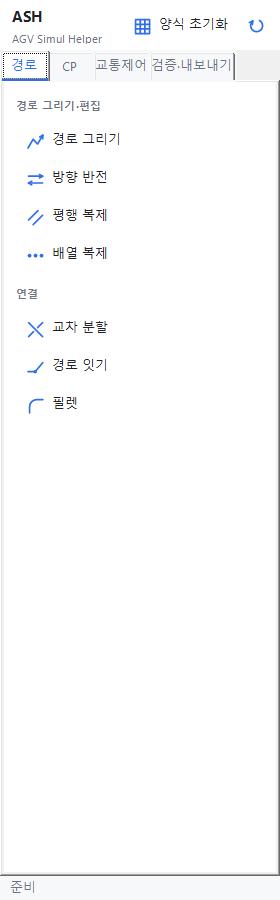
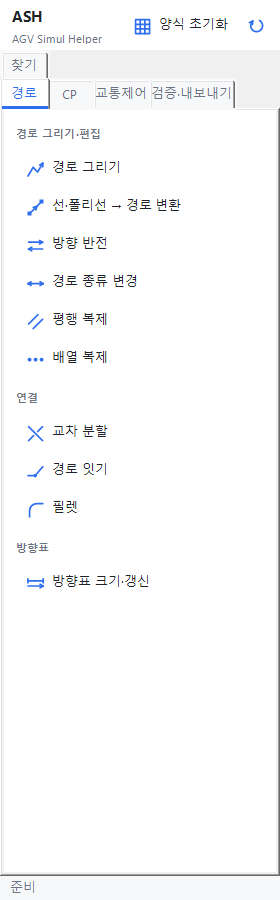
feat(path): AGVCONVERT turns drawn lines/polylines into one-way paths and splits at crossings
Selection, preselection or every object on one picked layer; one path per
segment as AGVPATH does, drawn direction, AGV_PATH layer; skipped objects
are listed by reason; then all paths are split like AGVSPLIT and a Korean
guidance block explains AGVREVERSE/AGVPTYPE and the next steps. One
transaction, one undo. Palette and ribbon button with its own glyph.

diff --git a/src/ASH.Plugin/Commands/PathCommands.cs b/src/ASH.Plugin/Commands/PathCommands.cs
@@ -88,16 +88,8 @@ public sealed class PathCommands
                 var pl = (Polyline)tr.GetObject(id, OpenMode.ForWrite);
                 var drawn = DrawingReader.ReadPath(pl, kind); // its straight lines and arcs, in the order drawn
                 if (drawn == null) continue;
-                // PLINE joins consecutive segments into one polyline; each line (or arc) becomes a path of its own so fillet, join and split work on them
-                var pieces = new List<LayoutPath>();
-                foreach (var seg in drawn.Segments)
-                {
-                    var name = AutoNamer.Next("P", names);
-                    names.Add(name);
-                    var piece = new LayoutPath(name) { IsSpur = kind.Spur, IsTwoWay = kind.Two, IsCrab = kind.Crab };
-                    piece.Segments.Add(seg);
-                    pieces.Add(piece);
-                }
+                // PLINE joins consecutive segments into one polyline; each line (or arc) becomes a path of its own
+                var pieces = PathConvert.Pieces(drawn.Segments, kind, names);
                 DrawingWriter.ReplacePaths(d, tr, new[] { pl.Handle.ToString() }, pieces);
                 made += pieces.Count;
                 ed.WriteMessage(pieces.Count == 1
@@ -107,6 +99,74 @@ public sealed class PathCommands
             return made > 0;
         });
     }
+
+    // ---------- AGVCONVERT: lines/polylines drawn with ordinary tools -> one-way paths, then split at every crossing ----------
+
+    [CommandMethod("AGVCONVERT", CommandFlags.UsePickSet)]
+    public void AgvConvert() => Run(Doc, "AGVCONVERT", (db, tr) =>
+    {
+        var ids = ConvertTargets(Ed, db, tr);
+        if (ids == null) return false;
+        var names = DrawingReader.Read(db, tr).Paths.Select(p => p.Name).ToList();
+        var skipped = new Dictionary<string, int>();
+        var sources = new List<string>();
+        var made = new List<LayoutPath>();
+        foreach (var id in ids)
+        {
+            if (!(tr.GetObject(id, OpenMode.ForRead) is Entity e) || e.IsErased) continue;
+            var locked = ((LayerTableRecord)tr.GetObject(e.LayerId, OpenMode.ForRead)).IsLocked;
+            var why = PathConvert.SkipReason(ConvertType(e), e.Layer, locked, Conventions.PathLayers);
+            // drawn order, XData ignored: every converted path is one-way from the start point to the end point
+            var segs = why != null ? null : e is Polyline2d p2 ? DrawingReader.Segments(p2, tr) : DrawingReader.Segments(e);
+            if (why == null && (segs == null || segs.Count == 0)) why = "길이 0";
+            if (why != null) { skipped[why] = (skipped.TryGetValue(why, out var n) ? n : 0) + 1; continue; }
+            made.AddRange(PathConvert.Pieces(segs!, (false, false, false), names));
+            sources.Add(e.Handle.ToString());
+        }
+        Ed.WriteMessage("\n" + PathConvert.Summary(sources.Count, made.Count, skipped));
+        if (made.Count == 0) { FinalStatus = "AGVCONVERT: 변환할 선·폴리선 없음"; return false; }
+        DrawingWriter.ReplacePaths(db, tr, sources, made);
+        var layout = DrawingReader.Read(db, tr); // every path, new and old, as AGVSPLIT with Enter
+        SplitPaths(db, tr, Ed, layout.Paths, layout.Tolerance);
+        Ed.WriteMessage("\n" + PathConvert.Guidance);
+        return true;
+    });
+
+    // Already selected, a selection, or everything on the layer of one picked object. Never the whole drawing: walls are lines too.
+    private static ObjectId[]? ConvertTargets(Editor ed, Database db, Transaction tr)
+    {
+        var imp = ed.SelectImplied();
+        if (imp.Status == PromptStatus.OK && imp.Value.Count > 0)
+        {
+            ed.SetImpliedSelection(new ObjectId[0]);
+            return imp.Value.GetObjectIds();
+        }
+        var mode = Keyword(ed, "\n변환 대상 [선택(S)/레이어(L)] <선택>", "S", "S", "L");
+        if (mode == null) return null;
+        if (mode == "S")
+        {
+            // no type filter: splines and other objects are selected too, so the summary can say they were skipped
+            var sel = ed.GetSelection(new PromptSelectionOptions { MessageForAdding = "\n경로로 바꿀 선·폴리선 선택" });
+            return sel.Status == PromptStatus.OK ? sel.Value.GetObjectIds() : null;
+        }
+        var pick = ed.GetEntity("\n변환할 레이어의 객체 하나 선택");
+        if (pick.Status != PromptStatus.OK) return null;
+        var layer = ((Entity)tr.GetObject(pick.ObjectId, OpenMode.ForRead)).Layer;
+        var all = DrawingReader.ModelSpace(db, tr, OpenMode.ForRead)
+            .Where(i => tr.GetObject(i, OpenMode.ForRead) is Entity e && DrawingReader.Eq(e.Layer, layer)).ToArray();
+        ed.WriteMessage($"\n레이어 {layer}: 객체 {all.Length}개");
+        return all;
+    }
+
+    private static string ConvertType(Entity e) => e switch
+    {
+        Line _ => "LINE",
+        Arc _ => "ARC",
+        Polyline _ => "LWPOLYLINE",
+        Polyline2d p => p.PolyType == Poly2dType.SimplePoly ? "POLYLINE2D" : PathConvert.FittedPolyline2d,
+        Polyline3d _ => "3D POLYLINE",
+        _ => e.GetRXClass().DxfName,
+    };
 
     // ---------- path type ----------
 

diff --git a/src/ASH.Core/Layout/PathConvert.cs b/src/ASH.Core/Layout/PathConvert.cs
@@ -1,0 +1,81 @@
+using System;
+using System.Collections.Generic;
+using System.Linq;
+using ASH.Core.Geometry;
+using ASH.Core.Traffic;
+
+namespace ASH.Core.Layout;
+
+/// <summary>
+/// The CAD-free part of AGVCONVERT (ordinary lines/polylines -> paths) and of AGVPATH's tagging:
+/// which entities convert, polyline vertices -> segments, one path per segment, and the command-line texts.
+/// </summary>
+public static class PathConvert
+{
+    /// <summary>Entity type names the plugin passes for what converts. POLYLINE2D = a 2D POLYLINE without curve/spline fitting.</summary>
+    public static readonly string[] Types = { "LINE", "ARC", "LWPOLYLINE", "POLYLINE2D" };
+
+    /// <summary>A 2D POLYLINE smoothed with PEDIT Fit/Spline: its vertices are not the drawn shape, so it is not converted.</summary>
+    public const string FittedPolyline2d = "POLYLINE2D_FIT";
+
+    /// <summary>Why an entity is left alone (shown in the summary), or null when it converts.</summary>
+    /// <param name="type">One of <see cref="Types"/>, <see cref="FittedPolyline2d"/>, or any other name (e.g. the DXF name "SPLINE").</param>
+    public static string? SkipReason(string type, string layer, bool layerLocked, IEnumerable<string> pathLayers)
+    {
+        if (pathLayers.Any(l => string.Equals(l, layer, StringComparison.OrdinalIgnoreCase))) return "이미 AGV 경로";
+        // AGV_BLOCK rectangles, result layers ...: never turn ASH's own objects into paths
+        if (layer.StartsWith("AGV_", StringComparison.OrdinalIgnoreCase)) return "AGV 레이어 " + layer;
+        if (layerLocked) return "잠긴 레이어 " + layer;
+        if (type == FittedPolyline2d) return "곡선·스플라인 맞춤 폴리선";
+        return Array.IndexOf(Types, type) >= 0 ? null : type + "(지원 안 함)";
+    }
+
+    /// <summary>Segments of a polyline in vertex order: a bulge becomes an arc (bulge = tan(sweep/4)), zero-length pieces are dropped.</summary>
+    public static List<Segment> FromVertices(IReadOnlyList<(Point2 P, double Bulge)> v, bool closed)
+    {
+        var segs = new List<Segment>();
+        int n = v.Count, count = closed ? n : n - 1;
+        for (int i = 0; i < count; i++)
+        {
+            var s = Bulge.ToSegment(v[i].P, v[(i + 1) % n].P, v[i].Bulge);
+            if (s != null && s.Length > 1e-9) segs.Add(s);
+        }
+        return segs;
+    }
+
+    /// <summary>One path per segment, as AGVPATH makes them, so fillet, join and split work on each piece.
+    /// Named P### after <paramref name="names"/>, which receives every new name.</summary>
+    public static List<LayoutPath> Pieces(IEnumerable<Segment> segs, (bool Spur, bool Two, bool Crab) kind, ICollection<string> names)
+    {
+        var pieces = new List<LayoutPath>();
+        foreach (var seg in segs)
+        {
+            var name = AutoNamer.Next("P", names);
+            names.Add(name);
+            var p = new LayoutPath(name) { IsSpur = kind.Spur, IsTwoWay = kind.Two, IsCrab = kind.Crab };
+            p.Segments.Add(seg);
+            pieces.Add(p);
+        }
+        return pieces;
+    }
+
+    /// <summary>"객체 n개 → 단방향 경로 m개", plus a second line listing what was skipped (largest group first).</summary>
+    public static string Summary(int entities, int paths, IReadOnlyDictionary<string, int> skipped)
+    {
+        var s = $"변환: 선·폴리선 {entities}개 → 단방향 경로 {paths}개 (AGV_PATH 레이어)";
+        if (skipped.Count > 0)
+            s += "\n건너뜀: " + string.Join(", ", skipped.OrderByDescending(k => k.Value).ThenBy(k => k.Key, StringComparer.Ordinal).Select(k => $"{k.Key} {k.Value}개"));
+        return s;
+    }
+
+    /// <summary>Printed at the end of AGVCONVERT: how to change direction and type, and what comes next.</summary>
+    public static readonly string Guidance = string.Join("\n",
+        "──── 다음 단계 ────",
+        "모든 경로가 그린 방향(시작점 → 끝점)의 단방향이 되었습니다. 화살표로 방향을 확인하세요.",
+        "· 방향 바꾸기: AGVREVERSE (팔레트 경로 탭 '방향 반전') → 뒤집을 경로를 선택하고 Enter. 경로를 먼저 선택한 뒤 실행해도 됩니다.",
+        "· 종류 바꾸기: AGVPTYPE (팔레트 '경로 종류 변경') → 경로 선택 → 단방향(O)/양방향(T)/지선(S)/크랩(C). 양방향은 방향과 무관합니다.",
+        "  속성 창에서 레이어만 바꾸면 종류가 바뀌지 않습니다(종류는 경로 데이터에 저장됨). 반드시 AGVPTYPE를 쓰세요.",
+        "· 끊긴 곳 잇기 AGVJOIN, 모서리 둥글리기 AGVFILLET, 나중에 추가한 선은 다시 AGVCONVERT.",
+        "· 다음: AGVCP로 CP 배치 → AGVCHECK로 검사.",
+        "· 되돌리기: Ctrl+Z 한 번이면 변환과 분할이 모두 취소됩니다.");
+}

diff --git a/tests/ASH.Tests/Layout/PathConvertTests.cs b/tests/ASH.Tests/Layout/PathConvertTests.cs
@@ -1,0 +1,79 @@
+using System.Collections.Generic;
+using System.Linq;
+using ASH.Core.Geometry;
+using ASH.Core.Layout;
+using Xunit;
+
+namespace ASH.Tests.Layout;
+
+public class PathConvertTests
+{
+    private static readonly string[] PathLayers = { "AGV_PATH", "AGV_PATH_TWO", "AGV_PATH_SPUR", "AGV_PATH_CRAB" };
+    private static (Point2, double) V(double x, double y, double bulge = 0) => (new Point2(x, y), bulge);
+
+    [Theory]
+    [InlineData("LINE", "0", false, null)]
+    [InlineData("ARC", "WALL_GUIDE", false, null)]
+    [InlineData("LWPOLYLINE", "0", false, null)]
+    [InlineData("POLYLINE2D", "0", false, null)]
+    [InlineData("LINE", "agv_path_two", false, "이미 AGV 경로")]
+    [InlineData("LWPOLYLINE", "AGV_BLOCK", false, "AGV 레이어 AGV_BLOCK")]
+    [InlineData("LINE", "0", true, "잠긴 레이어 0")]
+    [InlineData("POLYLINE2D_FIT", "0", false, "곡선·스플라인 맞춤 폴리선")]
+    [InlineData("SPLINE", "0", false, "SPLINE(지원 안 함)")]
+    [InlineData("3D POLYLINE", "0", false, "3D POLYLINE(지원 안 함)")]
+    public void SkipReason(string type, string layer, bool locked, string? expected) =>
+        Assert.Equal(expected, PathConvert.SkipReason(type, layer, locked, PathLayers));
+
+    [Fact] public void Vertices_Keep_Drawn_Order_And_Turn_Bulges_Into_Arcs()
+    {
+        // L-shape whose second piece is a CCW half circle (bulge 1), plus a repeated vertex that must vanish
+        var segs = PathConvert.FromVertices(new[] { V(0, 0), V(10, 0), V(10, 0, 1), V(10, 10) }, closed: false);
+        Assert.Equal(2, segs.Count);
+        Assert.IsType<LineSeg>(segs[0]);
+        Assert.Equal(new Point2(0, 0), segs[0].Start);
+        var arc = Assert.IsType<ArcSeg>(segs[1]);
+        Assert.Equal(180, arc.SweepDeg, 9);
+        Assert.Equal(10, arc.End.Y, 9);
+    }
+
+    [Fact] public void Closed_Polyline_Gets_The_Closing_Segment() =>
+        Assert.Equal(new Point2(0, 0), PathConvert.FromVertices(new[] { V(0, 0), V(10, 0), V(10, 10) }, closed: true).Last().End);
+
+    [Fact] public void One_Way_Piece_Per_Segment_Named_After_Existing_Paths()
+    {
+        var names = new List<string> { "P001", "P007_2", "P002" };
+        var segs = PathConvert.FromVertices(new[] { V(0, 0), V(10, 0), V(10, 10) }, closed: false);
+        var pieces = PathConvert.Pieces(segs, (false, false, false), names);
+        Assert.Equal(new[] { "P003", "P004" }, pieces.Select(p => p.Name));
+        Assert.Contains("P004", names);
+        Assert.All(pieces, p => Assert.False(p.IsSpur || p.IsTwoWay || p.IsCrab));
+        Assert.Equal("단방향", PathKinds.Label(pieces[0]));
+        Assert.Equal(new Point2(0, 0), pieces[0].Start); // drawn start = travel start
+        Assert.Equal(new Point2(10, 10), pieces[1].End);
+    }
+
+    [Fact] public void Converted_Crossing_Lines_Split_Into_Four_Keeping_Direction()
+    {
+        var names = new List<string>();
+        var paths = PathConvert.Pieces(PathConvert.FromVertices(new[] { V(-10, 0), V(10, 0) }, false), default, names)
+            .Concat(PathConvert.Pieces(PathConvert.FromVertices(new[] { V(0, 10), V(0, -10) }, false), default, names)).ToList();
+        var r = PathSplitter.SplitAll(paths, 0.001);
+        Assert.Equal(1, r.IntersectionCount);
+        Assert.Equal(new[] { "P001_1", "P001_2", "P002_1", "P002_2" }, r.Paths.Select(p => p.Name));
+        Assert.Equal(-10, r.Paths[0].Start.X);  // still runs west -> east
+        Assert.Equal(10, r.Paths[2].Start.Y);   // still runs north -> south
+    }
+
+    [Fact] public void Summary_Lists_Skipped_Largest_First()
+    {
+        var s = PathConvert.Summary(3, 7, new Dictionary<string, int> { ["SPLINE(지원 안 함)"] = 1, ["이미 AGV 경로"] = 4 });
+        Assert.Equal("변환: 선·폴리선 3개 → 단방향 경로 7개 (AGV_PATH 레이어)\n건너뜀: 이미 AGV 경로 4개, SPLINE(지원 안 함) 1개", s);
+        Assert.DoesNotContain('\n', PathConvert.Summary(1, 1, new Dictionary<string, int>()));
+    }
+
+    [Fact] public void Guidance_Names_The_Commands()
+    {
+        foreach (var cmd in new[] { "AGVREVERSE", "AGVPTYPE", "AGVCP", "AGVCHECK", "Ctrl+Z" }) Assert.Contains(cmd, PathConvert.Guidance);
+    }
+}

diff --git a/src/ASH.Plugin/Cad/DrawingReader.cs b/src/ASH.Plugin/Cad/DrawingReader.cs
@@ -68,6 +68,24 @@ public static class DrawingReader
     /// <summary>Converts a path entity (Line/Arc/Polyline) to a LayoutPath in travel order; null for other entity types.</summary>
     public static LayoutPath? ReadPath(Entity e, (bool Spur, bool Two, bool Crab) layerKind)
     {
+        var segs = Segments(e);
+        if (segs == null || segs.Count == 0) return null;
+        var x = XData.ReadPath(e);
+        if (x?.Reversed == true)
+        {
+            segs.Reverse();
+            segs = segs.Select(s => s.Reversed()).ToList();
+        }
+        return new LayoutPath(x?.Name ?? "?" + e.Handle)
+        {
+            Id = e.Handle.ToString(), Segments = segs,
+            IsSpur = x?.IsSpur ?? layerKind.Spur, IsTwoWay = x?.IsTwoWay ?? layerKind.Two, IsCrab = x?.IsCrab ?? layerKind.Crab,
+        };
+    }
+
+    /// <summary>Line/Arc/Polyline geometry in drawing (vertex) order, XData ignored; null for other entity types.</summary>
+    public static List<Segment>? Segments(Entity e)
+    {
         var segs = new List<Segment>();
         switch (e)
         {
@@ -84,31 +102,27 @@ public static class DrawingReader
             }
             case Polyline pl:
             {
-                int n = pl.NumberOfVertices, count = pl.Closed ? n : n - 1;
                 double flip = pl.Normal.Z < 0 ? -1 : 1;
-                for (int i = 0; i < count; i++)
-                {
-                    var s = Bulge.ToSegment(Xy(pl.GetPoint3dAt(i)), Xy(pl.GetPoint3dAt((i + 1) % n)), pl.GetBulgeAt(i) * flip);
-                    if (s != null) segs.Add(s);
-                }
-                break;
+                var v = Enumerable.Range(0, pl.NumberOfVertices).Select(i => (Xy(pl.GetPoint3dAt(i)), pl.GetBulgeAt(i) * flip)).ToList();
+                return PathConvert.FromVertices(v, pl.Closed);
             }
             default:
                 return null;
         }
         segs.RemoveAll(s => s.Length <= MinLen);
-        if (segs.Count == 0) return null;
-        var x = XData.ReadPath(e);
-        if (x?.Reversed == true)
-        {
-            segs.Reverse();
-            segs = segs.Select(s => s.Reversed()).ToList();
-        }
-        return new LayoutPath(x?.Name ?? "?" + e.Handle)
-        {
-            Id = e.Handle.ToString(), Segments = segs,
-            IsSpur = x?.IsSpur ?? layerKind.Spur, IsTwoWay = x?.IsTwoWay ?? layerKind.Two, IsCrab = x?.IsCrab ?? layerKind.Crab,
-        };
+        return segs;
+    }
+
+    /// <summary>A simple (not fitted) old-style 2D POLYLINE, as <see cref="Segments(Entity)"/> does for LWPOLYLINE.</summary>
+    public static List<Segment> Segments(Polyline2d p, Transaction tr)
+    {
+        double flip = p.Normal.Z < 0 ? -1 : 1;
+        var v = new List<(Point2, double)>();
+        int i = 0;
+        foreach (ObjectId vid in p)
+            if (tr.GetObject(vid, OpenMode.ForRead) is Vertex2d vx)
+                v.Add((Xy(p.GetPointAtParameter(i++)), vx.Bulge * flip)); // vertex k sits at parameter k, in WCS
+        return PathConvert.FromVertices(v, p.Closed);
     }
 
     internal static IEnumerable<ObjectId> ModelSpace(Database db, Transaction tr, OpenMode mode)

diff --git a/src/ASH.Plugin/Ui/Glyphs.cs b/src/ASH.Plugin/Ui/Glyphs.cs
@@ -4,7 +4,7 @@ using System.Drawing.Drawing2D;
 
 namespace ASH.Plugin.Ui;
 
-public enum GlyphKind { Init, Path, Reverse, Offset, Array, Split, Join, Fillet, Cp, Block, Traffic, Check, Export, Settings, Excel, Model, Update, PathType, ArrowSize, Search, Send, BlockNum, Run }
+public enum GlyphKind { Init, Path, Reverse, Offset, Array, Split, Join, Fillet, Cp, Block, Traffic, Check, Export, Settings, Excel, Model, Update, PathType, ArrowSize, Search, Send, BlockNum, Run, Convert }
 
 /// <summary>Single-colour line icons drawn in code (no image files). Coordinates are in a unit square scaled to px.</summary>
 public static class Glyphs
@@ -31,6 +31,11 @@ public static class Glyphs
             case GlyphKind.Path:
                 g.DrawLines(pen, new[] { P(0.12f, 0.82f), P(0.38f, 0.38f), P(0.6f, 0.62f), P(0.86f, 0.18f) });
                 Head(g, pen, P(0.6f, 0.62f), P(0.86f, 0.18f));
+                break;
+            case GlyphKind.Convert: // a drawn line (grip squares at its ends) that gains a direction head in the middle
+                g.DrawLine(pen, 0.2f, 0.8f, 0.8f, 0.2f);
+                foreach (var q in new[] { P(0.2f, 0.8f), P(0.8f, 0.2f) }) g.FillRectangle(fill, q.X - 0.1f, q.Y - 0.1f, 0.2f, 0.2f);
+                Head(g, pen, P(0.3f, 0.7f), P(0.56f, 0.44f));
                 break;
             case GlyphKind.Reverse:
                 Arrow(g, pen, P(0.15f, 0.33f), P(0.85f, 0.33f));

diff --git a/src/ASH.Plugin/Ui/AgvRibbon.cs b/src/ASH.Plugin/Ui/AgvRibbon.cs
@@ -21,7 +21,7 @@ public static class AgvRibbon
         var tab = new RibbonTab { Title = "ASH", Id = TabId };
         tab.Panels.Add(Panel("레이아웃", ("양식 초기화", GlyphKind.Init, "AGVINIT"), ("팔레트", GlyphKind.Block, "AGVPALETTE"),
             ("업데이트", GlyphKind.Update, "AGVUPDATE"), ("서버 설정", GlyphKind.Settings, "AGVSERVER")));
-        tab.Panels.Add(Panel("경로", ("경로 그리기", GlyphKind.Path, "AGVPATH"),
+        tab.Panels.Add(Panel("경로", ("경로 그리기", GlyphKind.Path, "AGVPATH"), ("선→경로 변환", GlyphKind.Convert, "AGVCONVERT"),
             ("방향 반전", GlyphKind.Reverse, "AGVREVERSE"), ("경로 종류", GlyphKind.PathType, "AGVPTYPE"), ("평행 복제", GlyphKind.Offset, "AGVOFFSET"), ("배열 복제", GlyphKind.Array, "AGVARRAY"),
             ("교차 분할", GlyphKind.Split, "AGVSPLIT"), ("경로 잇기", GlyphKind.Join, "AGVJOIN"), ("필렛", GlyphKind.Fillet, "AGVFILLET"),
             ("방향표 크기", GlyphKind.ArrowSize, "AGVARROW")));

diff --git a/src/ASH.Plugin/Ui/AgvPaletteControl.cs b/src/ASH.Plugin/Ui/AgvPaletteControl.cs
@@ -25,7 +25,7 @@ public sealed class AgvPaletteControl : UserControl
         tabs.DrawItem += DrawTab;
 
         tabs.TabPages.Add(Page("경로", Theme.Section("경로 그리기·편집"),
-            Theme.Make("경로 그리기", GlyphKind.Path, "AGVPATH"), Theme.Make("방향 반전", GlyphKind.Reverse, "AGVREVERSE"), Theme.Make("경로 종류 변경", GlyphKind.PathType, "AGVPTYPE"),
+            Theme.Make("경로 그리기", GlyphKind.Path, "AGVPATH"), Theme.Make("선·폴리선 → 경로 변환", GlyphKind.Convert, "AGVCONVERT"), Theme.Make("방향 반전", GlyphKind.Reverse, "AGVREVERSE"), Theme.Make("경로 종류 변경", GlyphKind.PathType, "AGVPTYPE"),
             Theme.Make("평행 복제", GlyphKind.Offset, "AGVOFFSET"), Theme.Make("배열 복제", GlyphKind.Array, "AGVARRAY"),
             Theme.Section("연결"),
             Theme.Make("교차 분할", GlyphKind.Split, "AGVSPLIT"), Theme.Make("경로 잇기", GlyphKind.Join, "AGVJOIN"), Theme.Make("필렛", GlyphKind.Fillet, "AGVFILLET"),
